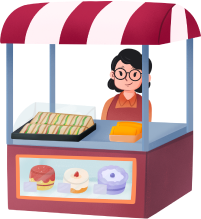
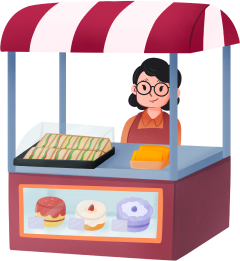
chore: add sign up merchant asset

diff --git a/apps/mobile/lib/gen/assets.gen.dart b/apps/mobile/lib/gen/assets.gen.dart
@@ -94,6 +94,18 @@ class $AssetsImagesHeroGen {
   AssetGenImage get signUpMerchant1 =>
       const AssetGenImage('assets/images/hero/sign-up-merchant-1.png');
 
+  /// File path: assets/images/hero/sign-up-merchant-2.png
+  AssetGenImage get signUpMerchant2 =>
+      const AssetGenImage('assets/images/hero/sign-up-merchant-2.png');
+
+  /// File path: assets/images/hero/sign-up-merchant-3.png
+  AssetGenImage get signUpMerchant3 =>
+      const AssetGenImage('assets/images/hero/sign-up-merchant-3.png');
+
+  /// File path: assets/images/hero/sign-up-merchant-4.png
+  AssetGenImage get signUpMerchant4 =>
+      const AssetGenImage('assets/images/hero/sign-up-merchant-4.png');
+
   /// File path: assets/images/hero/sign-up-user.svg
   SvgGenImage get signUpUser =>
       const SvgGenImage('assets/images/hero/sign-up-user.svg');
@@ -105,6 +117,9 @@ class $AssetsImagesHeroGen {
     signUpDriver3,
     signUpDriver4,
     signUpMerchant1,
+    signUpMerchant2,
+    signUpMerchant3,
+    signUpMerchant4,
     signUpUser,
   ];
 }
